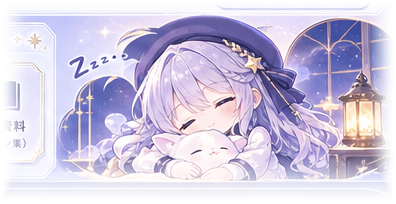
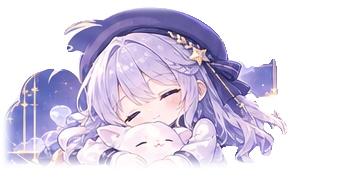
Improve anime cutout transparency and add interactive generated-prop archive

diff --git a/index.html b/index.html
@@ -1,1 +1,1 @@
-<!doctype html><html lang="ja"><head><meta charset="utf-8"><meta name="viewport" content="width=device-width,initial-scale=1"><meta name="theme-color" content="#080e22"><meta name="description" content="星詠ミオのオフィシャルサイト。届かなかった星の声を、あなたへ。プロフィール、観測日誌、音声通信。"><meta property="og:type" content="website"><meta property="og:title" content="星詠ミオ | HOSHIYOMI MIO Official"><meta property="og:description" content="星の声が、きこえる。架空の少女・星詠ミオの公式サイト。"><meta name="twitter:card" content="summary"><title>星詠ミオ | HOSHIYOMI MIO Official</title><link rel="icon" href="assets/favicon.svg" type="image/svg+xml"><link rel="stylesheet" href="style.css"></head><body><div class="sky" aria-hidden="true"><div class="stars"></div></div><div class="noise" aria-hidden="true"></div><header class="header"><a class="brand" href="#top" aria-label="星詠ミオ トップ"><span class="brandmark">✳</span><span>HOSHIYOMI<br><b>MIO</b></span></a><nav class="nav" aria-label="メインナビゲーション"><a href="#about">ABOUT</a><a href="#news">NEWS</a><a href="#signal">SIGNAL</a><a href="#voice">VOICE</a><a href="#schedule">SCHEDULE</a><a href="#gallery">GALLERY</a><a href="#star-map">STAR MAP</a><a href="#letter">LETTER</a><a href="#wallpaper">WALLPAPER</a></nav><a class="header-cta" href="#signal">CONNECT <span>↗</span></a><button class="menu-toggle" aria-label="メニューを開く" aria-expanded="false">☰</button></header><main><section class="hero" id="top"><div class="hero-grid" aria-hidden="true"></div><div class="hero-content"><p class="eyebrow"><span class="pulse"></span> SIGNAL DETECTED · 00:01:27</p><div class="hero-heading"><span class="hero-kicker">THE GIRL WHO LISTENS TO THE STARS.</span><h1>星の声が、<br><em>きこえる。</em></h1><p class="hero-name">星詠 ミオ <span>HOSHIYOMI MIO</span></p></div><p class="hero-intro">真夜中、きみの世界とわたしの宇宙がつながる。<br>これは、まだ名前のない星から届いた物語。</p><div class="hero-actions"><a class="button button-primary" href="#about">ミオについて <span>↗</span></a><a class="text-link" href="#signal">通信を受信する <span>→</span></a><button id="theme-toggle" type="button" class="hero-theme" aria-label="夜明け色のテーマに切り替える">☾</button></div><div class="hero-foot"><span>OBSERVATORY NO. 07</span><span>SCROLL TO EXPLORE ↓</span></div></div><div class="hero-portrait"><div class="orbit orbit-one"></div><div class="orbit orbit-two"></div><div class="halo"></div><img src="assets/mio-hero-art.png" alt="生成イラストによる、銀紫色の髪と星のヘアピンを身につけた星詠ミオ" width="755" height="508" fetchpriority="high"><div class="float-label float-label-top"><span>✦</span> 07 / UNKNOWN STAR</div><div class="float-label float-label-bottom"><span class="tiny-dot"></span> CURRENTLY ONLINE</div></div><span class="hero-side">TRANSMISSION FROM THE FAR SIDE OF THE SKY — 2026</span></section><div class="ticker" aria-hidden="true"><div>✳ LISTEN TO THE UNIVERSE <span>✦</span> STARS NEVER STOP TALKING <span>✳</span> LISTEN TO THE UNIVERSE <span>✦</span> STARS NEVER STOP TALKING <span>✳</span> LISTEN TO THE UNIVERSE <span>✦</span> STARS NEVER STOP TALKING</div></div><section class="section news" id="news"><div class="section-top"><span class="num">01 / NEWS</span><p>天文台から届いた、お知らせ。</p></div><div class="news-heading"><h2 class="section-title">小さな<i>お知らせ。</i></h2><div class="news-tabs" role="group" aria-label="ニュースのカテゴリー"><button class="news-filter active" data-news-filter="all" aria-pressed="true">ALL</button><button class="news-filter" data-news-filter="notice" aria-pressed="false">NOTICE</button><button class="news-filter" data-news-filter="story" aria-pressed="false">STORY</button><button class="news-filter" data-news-filter="update" aria-pressed="false">UPDATE</button></div></div><div class="news-items"><article class="news-item" data-news-category="notice"><time datetime="2026-11-04">2026.11.04</time><span class="news-pill">NOTICE</span><div><h3>星詠ミオ公式サイトがオープンしました。</h3><p>観測所へようこそ。ここから私たちの物語が始まります。</p></div></article><article class="news-item" data-news-category="story"><time datetime="2026-10-27">2026.10.27</time><span class="news-pill story">STORY</span><div><h3>観測記録 #001：誰かに届く電波</h3><p>ひとりぼっちの観測所に、小さな返事がありました。</p></div></article><article class="news-item" data-news-category="update"><time datetime="2026-10-07">2026.10.07</time><span class="news-pill update">UPDATE</span><div><h3>宇宙通信の受信機をアップデート。</h3><p>87.7 MHz付近に秘密のメッセージが隠れています。</p></div></article></div><p class="news-empty" hidden>このカテゴリーの記事はありません。</p></section><section class="section about" id="about"><div class="section-top"><span class="num">02 / PROFILE</span><p>宇宙のどこかにいる、きみへ。</p></div><div class="about-grid"><div><h2 class="section-title">はじめまして、<br><i>星詠ミオ</i>です。</h2><p class="about-text">夜の観測所でひとり、星から届く電波を聴いている女の子。<br>遠く離れた誰かの「さみしい」が、少しでも軽くなるように。今日も小さなアンテナを空へ向けています。</p><blockquote>「見えなくても、<br>ちゃんとそこにいるって、<br>私は信じてるよ。」</blockquote></div><div class="profile-card"><div class="profile-card-head">PERSONAL DATA <span>FILE_007</span></div><div class="profile-illustration"><img src="assets/mio-portrait-art.png" alt="星詠ミオの微笑むポートレート" loading="lazy"></div><dl><div><dt>NAME</dt><dd>星詠 ミオ <small>Hoshiyomi Mio</small></dd></div><div><dt>BIRTHDAY</dt><dd>7月7日</dd></div><div><dt>HEIGHT</dt><dd>158 cm</dd></div><div><dt>LIKE</dt><dd>流星群、クリームソーダ、古いラジオ</dd></div><div><dt>HOBBY</dt><dd>星の声を集めること</dd></div><div><dt>SECRET</dt><dd>とある星から届いた手紙を探している</dd></div></dl><div class="profile-seal">✳ <span>OFFICIAL<br>ARCHIVE</span></div></div></div></section><section class="section signal" id="signal"><div class="section-top"><span class="num">03 / SIGNAL</span><p>観測所からの、ひみつの通信。</p></div><div class="signal-grid"><div><h2 class="section-title">今夜の電波を<br><i>受信しよう。</i></h2><p class="about-text">周波数を合わせると、ミオからのメッセージが届きます。<br>ヘッドホンはなくても大丈夫。きみの心に、そっと。</p><div class="frequency-control"><label for="freq">FREQUENCY <output id="freq-value">87.7</output> MHz</label><input id="freq" type="range" min="75" max="100" value="87.7" step="0.1" aria-label="ラジオ周波数"></div><button class="button button-primary signal-btn" id="receive">✳ &nbsp; SIGNAL RECEIVE</button><p class="signal-hint" id="signal-status" role="status">受信ボタンを押して、通信を開始してください。</p></div><div class="receiver"><div class="receiver-top"><span>H.M. / RECEIVER</span><span class="receiver-led">● STANDBY</span></div><div class="receiver-screen"><div class="wave" id="wave" aria-hidden="true"></div><div class="receiver-frequency"><span id="screen-freq">87.7</span><small>MHz</small></div><p id="received-message">AWAITING TRANSMISSION...</p></div><div class="receiver-footer"><span>CHANNEL 07</span><span>STEREO / COSMIC</span></div></div></div></section><section class="section voice-section" id="voice"><div class="section-top"><span class="num">04 / VOICE & MUSIC</span><p>星詠ミオの声を、想像してみて。</p></div><div class="voice-layout"><div><span class="star-kicker">LISTEN TO THE COSMOS</span><h2 class="section-title">声が<i>届く距離。</i></h2><p class="about-text">以下のセリフは端末の音声合成機能で読み上げます。実際のミオの収録音声ではありません。ブラウザによって利用できる声や音質が異なります。</p><div class="voice-samples"><button type="button" class="voice-sample" data-speak="こんばんは。星詠ミオです。今日も、星の声が聞こえるかな？"><span class="voice-play">▶</span><span>01 / はじめまして<small>INTRODUCTION</small></span><span>02:00 AM ↗</span></button><button type="button" class="voice-sample" data-speak="見上げて。きっと、すぐそばに見えるから。"><span class="voice-play">▶</span><span>02 / 星空の約束<small>STAR PROMISE</small></span><span>08:07 PM ↗</span></button><button type="button" class="voice-sample" data-speak="今日も一日、おつかれさま。明日が少し、やさしい日になりますように。"><span class="voice-play">▶</span><span>03 / おやすみ<small>GOOD NIGHT</small></span><span>11:57 PM ↗</span></button></div><p id="voice-status" role="status" class="voice-status">再生ボタンを押すと音声合成が開始します。</p><button id="stop-voice" class="ghost-button" type="button">読み上げを停止 ■</button></div><div class="music-console"><div class="music-console-art"><img src="assets/mio-portrait-art.png" loading="lazy" alt="星空で微笑むミオ"><span>✳　ORIGINAL AMBIENT TONES</span></div><div class="music-console-body"><div><span class="small-title">COSMIC RADIO</span><h3>「夜のかけら」</h3><p>オリジナルの電子音でつくる、小さなアンビエント音楽。</p></div><button id="ambient-toggle" class="music-play" type="button" aria-pressed="false" aria-label="BGMを再生">▶</button></div><div class="ambient-bottom"><span id="ambient-status">STOPPED</span><label for="ambient-volume">VOLUME <input id="ambient-volume" type="range" min="0" max="100" value="25" aria-label="BGMの音量"></label></div></div></div></section><section class="section schedule-section" id="schedule"><div class="section-top"><span class="num">05 / OBSERVATION CALENDAR</span><p>架空の観測所の、カレンダー。</p></div><div class="schedule-layout"><div><span class="star-kicker">COSMIC EVENT CALENDAR</span><h2 class="section-title">星空の<i>予定表。</i></h2><p class="about-text">観測所での物語上の出来事を記したカレンダーです。現実の配信・イベントの告知ではありません。日付を選ぶと、その日の観測メモが表示されます。</p><div class="schedule-note"><span>✳</span><p>7日：小さな通信日<br>18日：星屑ノート更新<br>25日：深夜の観測会</p></div><p id="schedule-selected" class="schedule-selected" role="status">カレンダーの星印がある日を選んでください。</p><a class="text-link" href="#log">観測日誌を見る <span>→</span></a></div><div class="calendar"><div class="calendar-head"><button id="prev-month" aria-label="前の月を見る" type="button">←</button><h3 id="calendar-title">2026年11月</h3><button id="next-month" aria-label="次の月を見る" type="button">→</button></div><div class="calendar-weekdays" aria-hidden="true"><span>日</span><span>月</span><span>火</span><span>水</span><span>木</span><span>金</span><span>土</span></div><div class="calendar-days" id="calendar-days"></div><div class="calendar-footer"><span>✦ STORY EVENT</span><span>FICTIONAL SCHEDULE ONLY</span></div></div></div></section><section class="section logs" id="log"><div class="section-top"><span class="num">06 / OBSERVATION LOG</span><p>誰も知らない、星の記録。</p></div><div class="log-heading"><h2 class="section-title">星屑の<i>日誌。</i></h2><span>ARCHIVED TRANSMISSIONS</span></div><div class="log-list"><article class="log-item"><time>2026.11.04</time><span class="log-type">DIARY</span><div><h3>新しいアンテナが届いた日。</h3><p>昨日より少しだけ、遠くの声が聞こえた気がする。</p></div><button class="log-arrow" type="button" aria-label="観測日誌を詳しく読む">↗</button></article><article class="log-item"><time>2026.10.27</time><span class="log-type">OBSERVATION</span><div><h3>しし座の方角から、謎の信号。</h3><p>規則正しい音が七回。もしかして、返事なのかな。</p></div><button class="log-arrow" type="button" aria-label="観測日誌を詳しく読む">↗</button></article><article class="log-item"><time>2026.10.07</time><span class="log-type">MEMORY</span><div><h3>クリームソーダと、青い彗星。</h3><p>甘いものを食べると、宇宙も少し近くなる。</p></div><button class="log-arrow" type="button" aria-label="観測日誌を詳しく読む">↗</button></article></div><dialog id="log-dialog" class="story-dialog" aria-label="観測日誌の本文"><button type="button" id="close-log" class="dialog-close" aria-label="日誌を閉じる">×</button><span>OBSERVATION LOG</span><h3 id="log-dialog-title"></h3><p id="log-dialog-body"></p></dialog></section><section class="section gallery" id="gallery"><div class="section-top"><span class="num">07 / GALLERY</span><p>この瞬間も、宇宙は広がっている。</p></div><div class="gallery-grid"><div class="gallery-art"><div class="gallery-moon"></div><div class="gallery-small-stars">✦ ✧ ✳ ✧ ✦</div><img src="assets/mio-portrait-art.png" alt="星詠ミオの天文台での一場面" loading="lazy"><span>ARTWORK NO. 001 — ORIGINAL CHARACTER</span></div><div class="gallery-copy"><span>AN ARCHIVE OF LITTLE MIRACLES</span><h2>きみと、<br><i>星を数える。</i></h2><p>世界中の夜空は、どこかでつながっている。<br>明日の夜も、ここで会おうね。</p><span class="signature">Mio ✳</span></div></div><div class="art-collection" aria-label="ミオのイラストコレクション"><button class="art-tile" type="button" data-art="assets/mio-hero-art.png" data-art-title="流星に手をのばして"><img src="assets/mio-hero-art.png" loading="lazy" alt="流れ星に手を伸ばすミオ"><span>01 / REACH THE STARS　↗</span></button><button class="art-tile" type="button" data-art="assets/mio-observatory-art.png" data-art-title="夜の観測所"><img src="assets/mio-observatory-art.png" loading="lazy" alt="星空と夜の天文台"><span>02 / OBSERVATORY　↗</span></button><button class="art-tile" type="button" data-art="assets/mio-chibi-art.png" data-art-title="星の夢を見る"><img src="assets/mio-chibi-art.png" loading="lazy" alt="星のマスコットを抱く眠そうなミオ"><span>03 / GOOD NIGHT　↗</span></button></div><dialog id="art-dialog" class="art-dialog" aria-label="拡大イラスト"><button type="button" class="dialog-close" id="close-art" aria-label="画像を閉じる">×</button><img id="dialog-image" alt=""><p id="dialog-title"></p></dialog></section><section class="section star-section" id="star-map"><div class="section-top"><span class="num">08 / STELLAR ATLAS</span><p>失くした星を、ひとつずつ。</p></div><div class="star-layout"><div class="star-copy"><span class="star-kicker">MIO'S SEVEN STARS</span><h2 class="section-title">七つの星を<i>探して。</i></h2><p class="about-text">天文台に隠された七つの光。星をタップすると、ミオの記憶が少しずつ戻ってきます。全部見つけると、特別なメッセージが届きます。</p><div class="star-counter"><strong id="star-count">0</strong><span>/ 07 DISCOVERED</span></div><p id="star-story" class="star-story" role="status">光る星を選んでみてください。</p><button id="reset-stars" class="ghost-button" type="button">星図をリセット ↺</button></div><div class="sky-chart" role="group" aria-label="七つの星を集めるインタラクティブ星図"><svg id="star-lines" viewBox="0 0 600 520" preserveAspectRatio="none" aria-hidden="true"></svg><div class="sky-chart-orbit"></div><span class="sky-label sky-label-one">CONSTELLATION M-07</span><span class="sky-label sky-label-two">RA 07h 07m</span><button class="sky-star" type="button" style="--x:16%;--y:26%;--size:16px" data-star="0" aria-label="1番目の星を観測する">✦</button><button class="sky-star" type="button" style="--x:36%;--y:12%;--size:21px" data-star="1" aria-label="2番目の星を観測する">✦</button><button class="sky-star" type="button" style="--x:64%;--y:25%;--size:19px" data-star="2" aria-label="3番目の星を観測する">✦</button><button class="sky-star" type="button" style="--x:82%;--y:43%;--size:24px" data-star="3" aria-label="4番目の星を観測する">✦</button><button class="sky-star" type="button" style="--x:66%;--y:78%;--size:17px" data-star="4" aria-label="5番目の星を観測する">✦</button><button class="sky-star" type="button" style="--x:33%;--y:73%;--size:23px" data-star="5" aria-label="6番目の星を観測する">✦</button><button class="sky-star" type="button" style="--x:16%;--y:51%;--size:19px" data-star="6" aria-label="7番目の星を観測する">✦</button></div></div><div id="star-secret" class="star-secret" hidden><span>✳ ALL SIGNALS RESTORED</span><p>「見つけてくれてありがとう。きみが七つ目の星だったんだよ。」</p></div></section><section class="section letter-section" id="letter"><div class="section-top"><span class="num">09 / STAR LETTER</span><p>送らない手紙も、大切な記録。</p></div><div class="letter-layout"><div><h2 class="section-title">星に<i>手紙を。</i></h2><p class="about-text">今夜の気持ちを、こっそり書きとめてみませんか。この手紙はサーバーには送信されず、使っているブラウザの中にだけ保存されます。</p><div class="letter-art"><img src="assets/mio-chibi-art.png" loading="lazy" alt="眠そうなミオのイラスト"><span>"Tomorrow's sky will be kind to you."</span></div></div><div class="letter-paper"><div class="letter-paper-head"><span>TO. HOSHIYOMI MIO</span><span>PRIVATE ARCHIVE</span></div><form id="letter-form"><label for="letter-body">きみからのメッセージ</label><textarea id="letter-body" maxlength="280" required placeholder="今日、こんなことがあったよ。"></textarea><div class="letter-actions"><span id="letter-length">0 / 280</span><button class="button button-primary" type="submit">手紙をしまう <span>✳</span></button></div></form><p id="letter-feedback" class="letter-feedback" role="status"></p><div class="letter-history"><div class="letter-history-head"><h3>しまっておいた手紙</h3><span id="letter-total">0 LETTERS</span></div><ul id="letter-list" class="letter-list"></ul></div></div></div></section><section class="section wallpaper-section" id="wallpaper"><div class="section-top"><span class="num">10 / WALLPAPER STUDIO</span><p>きみだけの、星空を。</p></div><div class="wallpaper-layout"><div><span class="star-kicker">DESIGN YOUR OWN NIGHT SKY</span><h2 class="section-title">壁紙を<i>つくろう。</i></h2><p class="about-text">好きなサイズを選んで、星詠ミオのオリジナル壁紙を生成できます。背景や文字はブラウザで描画し、画像生成したキャラクター素材を合成します。</p><label class="wallpaper-label" for="wallpaper-size">キャンバスサイズ</label><select id="wallpaper-size"><option value="mobile">スマートフォン / 1080 × 1920</option><option value="desktop">パソコン / 1920 × 1080</option><option value="square">正方形 / 1080 × 1080</option></select><div class="wallpaper-actions"><button id="wallpaper-refresh" class="ghost-button" type="button">星空を変える ✧</button><button id="wallpaper-download" class="button button-primary" type="button">PNGを保存 ↓</button></div><p class="wallpaper-notice" id="wallpaper-status" role="status">プレビューを作成しています。</p></div><div class="wallpaper-preview-wrap"><canvas id="wallpaper-preview" width="540" height="960" aria-label="壁紙のプレビュー画像"></canvas><div class="wallpaper-preview-caption">LIVE PREVIEW · GENERATED LOCALLY</div></div></div></section></main><footer><div class="footer-logo">✳ <span>星詠ミオ</span></div><p>星の声が、きこえる。</p><div class="footer-bottom"><span>© 2026 HOSHIYOMI MIO. FICTIONAL CHARACTER PROJECT. ORIGINAL AI-ASSISTED ARTWORK.</span><a href="#top">BACK TO TOP ↑</a></div></footer><aside class="mio-helper" aria-label="ミオの小さな案内"><div class="helper-bubble" id="helper-bubble" hidden><p id="helper-message">やっほー！ 星を見にきてくれてありがとう。</p><button id="helper-favorite" type="button" aria-pressed="false">☆ お気に入り</button><button id="helper-dismiss" type="button" aria-label="案内を閉じる">×</button></div><button id="helper-toggle" type="button" aria-label="ミオのメッセージを開く" aria-expanded="false"><img src="assets/mio-chibi-art.png" alt="" width="120" height="64"><span>✧ TALK</span></button></aside><script src="script.js"></script></body></html>
+<!doctype html><html lang="ja"><head><meta charset="utf-8"><meta name="viewport" content="width=device-width,initial-scale=1"><meta name="theme-color" content="#080e22"><meta name="description" content="星詠ミオのオフィシャルサイト。届かなかった星の声を、あなたへ。プロフィール、観測日誌、音声通信。"><meta property="og:type" content="website"><meta property="og:title" content="星詠ミオ | HOSHIYOMI MIO Official"><meta property="og:description" content="星の声が、きこえる。架空の少女・星詠ミオの公式サイト。"><meta name="twitter:card" content="summary"><title>星詠ミオ | HOSHIYOMI MIO Official</title><link rel="icon" href="assets/favicon.svg" type="image/svg+xml"><link rel="stylesheet" href="style.css"></head><body><div class="sky" aria-hidden="true"><div class="stars"></div></div><div class="noise" aria-hidden="true"></div><header class="header"><a class="brand" href="#top" aria-label="星詠ミオ トップ"><span class="brandmark">✳</span><span>HOSHIYOMI<br><b>MIO</b></span></a><nav class="nav" aria-label="メインナビゲーション"><a href="#about">ABOUT</a><a href="#news">NEWS</a><a href="#signal">SIGNAL</a><a href="#voice">VOICE</a><a href="#schedule">SCHEDULE</a><a href="#gallery">GALLERY</a><a href="#star-map">STAR MAP</a><a href="#letter">LETTER</a><a href="#wallpaper">WALLPAPER</a></nav><a class="header-cta" href="#signal">CONNECT <span>↗</span></a><button class="menu-toggle" aria-label="メニューを開く" aria-expanded="false">☰</button></header><main><section class="hero" id="top"><div class="hero-grid" aria-hidden="true"></div><div class="hero-content"><p class="eyebrow"><span class="pulse"></span> SIGNAL DETECTED · 00:01:27</p><div class="hero-heading"><span class="hero-kicker">THE GIRL WHO LISTENS TO THE STARS.</span><h1>星の声が、<br><em>きこえる。</em></h1><p class="hero-name">星詠 ミオ <span>HOSHIYOMI MIO</span></p></div><p class="hero-intro">真夜中、きみの世界とわたしの宇宙がつながる。<br>これは、まだ名前のない星から届いた物語。</p><div class="hero-actions"><a class="button button-primary" href="#about">ミオについて <span>↗</span></a><a class="text-link" href="#signal">通信を受信する <span>→</span></a><button id="theme-toggle" type="button" class="hero-theme" aria-label="夜明け色のテーマに切り替える">☾</button></div><div class="hero-foot"><span>OBSERVATORY NO. 07</span><span>SCROLL TO EXPLORE ↓</span></div></div><div class="hero-portrait"><div class="orbit orbit-one"></div><div class="orbit orbit-two"></div><div class="halo"></div><img src="assets/mio-hero-art.png" alt="生成イラストによる、銀紫色の髪と星のヘアピンを身につけた星詠ミオ" width="755" height="508" fetchpriority="high"><div class="float-label float-label-top"><span>✦</span> 07 / UNKNOWN STAR</div><div class="float-label float-label-bottom"><span class="tiny-dot"></span> CURRENTLY ONLINE</div></div><span class="hero-side">TRANSMISSION FROM THE FAR SIDE OF THE SKY — 2026</span></section><div class="ticker" aria-hidden="true"><div>✳ LISTEN TO THE UNIVERSE <span>✦</span> STARS NEVER STOP TALKING <span>✳</span> LISTEN TO THE UNIVERSE <span>✦</span> STARS NEVER STOP TALKING <span>✳</span> LISTEN TO THE UNIVERSE <span>✦</span> STARS NEVER STOP TALKING</div></div><section class="section news" id="news"><div class="section-top"><span class="num">01 / NEWS</span><p>天文台から届いた、お知らせ。</p></div><div class="news-heading"><h2 class="section-title">小さな<i>お知らせ。</i></h2><div class="news-tabs" role="group" aria-label="ニュースのカテゴリー"><button class="news-filter active" data-news-filter="all" aria-pressed="true">ALL</button><button class="news-filter" data-news-filter="notice" aria-pressed="false">NOTICE</button><button class="news-filter" data-news-filter="story" aria-pressed="false">STORY</button><button class="news-filter" data-news-filter="update" aria-pressed="false">UPDATE</button></div></div><div class="news-items"><article class="news-item" data-news-category="notice"><time datetime="2026-11-04">2026.11.04</time><span class="news-pill">NOTICE</span><div><h3>星詠ミオ公式サイトがオープンしました。</h3><p>観測所へようこそ。ここから私たちの物語が始まります。</p></div></article><article class="news-item" data-news-category="story"><time datetime="2026-10-27">2026.10.27</time><span class="news-pill story">STORY</span><div><h3>観測記録 #001：誰かに届く電波</h3><p>ひとりぼっちの観測所に、小さな返事がありました。</p></div></article><article class="news-item" data-news-category="update"><time datetime="2026-10-07">2026.10.07</time><span class="news-pill update">UPDATE</span><div><h3>宇宙通信の受信機をアップデート。</h3><p>87.7 MHz付近に秘密のメッセージが隠れています。</p></div></article></div><p class="news-empty" hidden>このカテゴリーの記事はありません。</p></section><section class="section about" id="about"><div class="section-top"><span class="num">02 / PROFILE</span><p>宇宙のどこかにいる、きみへ。</p></div><div class="about-grid"><div><h2 class="section-title">はじめまして、<br><i>星詠ミオ</i>です。</h2><p class="about-text">夜の観測所でひとり、星から届く電波を聴いている女の子。<br>遠く離れた誰かの「さみしい」が、少しでも軽くなるように。今日も小さなアンテナを空へ向けています。</p><a class="text-link" href="#equipment">観測所の宝物を見る <span>→</span></a><blockquote>「見えなくても、<br>ちゃんとそこにいるって、<br>私は信じてるよ。」</blockquote></div><div class="profile-card"><div class="profile-card-head">PERSONAL DATA <span>FILE_007</span></div><div class="profile-illustration"><img src="assets/mio-portrait-art.png" alt="星詠ミオの微笑むポートレート" loading="lazy"></div><dl><div><dt>NAME</dt><dd>星詠 ミオ <small>Hoshiyomi Mio</small></dd></div><div><dt>BIRTHDAY</dt><dd>7月7日</dd></div><div><dt>HEIGHT</dt><dd>158 cm</dd></div><div><dt>LIKE</dt><dd>流星群、クリームソーダ、古いラジオ</dd></div><div><dt>HOBBY</dt><dd>星の声を集めること</dd></div><div><dt>SECRET</dt><dd>とある星から届いた手紙を探している</dd></div></dl><div class="profile-seal">✳ <span>OFFICIAL<br>ARCHIVE</span></div></div></div></section><section class="section equipment-section" id="equipment"><div class="section-top"><span class="num">03 / OBSERVATORY OBJECTS</span><p>夜の観測所にある、三つの宝物。</p></div><div class="equipment-heading"><div><span class="star-kicker">LOST & FOUND, STARDUST EDITION</span><h2 class="section-title">ミオの<i>宝物。</i></h2></div><p>画像生成素材から切り出した小道具を並べた、観測所の小さな図鑑。気になるものを選んでください。</p></div><div class="equipment-grid" role="group" aria-label="観測所の小道具を選択"><button class="equipment-item active" type="button" data-equipment="0" aria-pressed="true"><span class="gear-index">OBJECT / 01</span><div class="gear-image"><img src="assets/prop-star-pin.png" alt="星の形の髪飾り" loading="lazy"></div><strong>星の髪飾り</strong><span class="gear-sub">STELLAR HAIRPIN</span></button><button class="equipment-item" type="button" data-equipment="1" aria-pressed="false"><span class="gear-index">OBJECT / 02</span><div class="gear-image"><img src="assets/prop-telescope.png" alt="星空を向いた望遠鏡" loading="lazy"></div><strong>深夜の望遠鏡</strong><span class="gear-sub">MIDNIGHT TELESCOPE</span></button><button class="equipment-item" type="button" data-equipment="2" aria-pressed="false"><span class="gear-index">OBJECT / 03</span><div class="gear-image"><img src="assets/mio-observatory-art.png" alt="ドーム型の夜の観測所" loading="lazy"></div><strong>七番観測所</strong><span class="gear-sub">OBSERVATORY NO. 07</span></button></div><div class="equipment-story"><span id="equipment-tag">COLLECTION NO. 01</span><p id="equipment-description" role="status">ミオがいつも身につけている星形の髪飾り。誰かからもらった大切な贈り物だけれど、送り主の名前だけが思い出せません。</p></div></section><section class="section signal" id="signal"><div class="section-top"><span class="num">04 / SIGNAL</span><p>観測所からの、ひみつの通信。</p></div><div class="signal-grid"><div><h2 class="section-title">今夜の電波を<br><i>受信しよう。</i></h2><p class="about-text">周波数を合わせると、ミオからのメッセージが届きます。<br>ヘッドホンはなくても大丈夫。きみの心に、そっと。</p><div class="frequency-control"><label for="freq">FREQUENCY <output id="freq-value">87.7</output> MHz</label><input id="freq" type="range" min="75" max="100" value="87.7" step="0.1" aria-label="ラジオ周波数"></div><button class="button button-primary signal-btn" id="receive">✳ &nbsp; SIGNAL RECEIVE</button><p class="signal-hint" id="signal-status" role="status">受信ボタンを押して、通信を開始してください。</p></div><div class="receiver"><div class="receiver-top"><span>H.M. / RECEIVER</span><span class="receiver-led">● STANDBY</span></div><div class="receiver-screen"><div class="wave" id="wave" aria-hidden="true"></div><div class="receiver-frequency"><span id="screen-freq">87.7</span><small>MHz</small></div><p id="received-message">AWAITING TRANSMISSION...</p></div><div class="receiver-footer"><span>CHANNEL 07</span><span>STEREO / COSMIC</span></div></div></div></section><section class="section voice-section" id="voice"><div class="section-top"><span class="num">05 / VOICE & MUSIC</span><p>星詠ミオの声を、想像してみて。</p></div><div class="voice-layout"><div><span class="star-kicker">LISTEN TO THE COSMOS</span><h2 class="section-title">声が<i>届く距離。</i></h2><p class="about-text">以下のセリフは端末の音声合成機能で読み上げます。実際のミオの収録音声ではありません。ブラウザによって利用できる声や音質が異なります。</p><div class="voice-samples"><button type="button" class="voice-sample" data-speak="こんばんは。星詠ミオです。今日も、星の声が聞こえるかな？"><span class="voice-play">▶</span><span>01 / はじめまして<small>INTRODUCTION</small></span><span>02:00 AM ↗</span></button><button type="button" class="voice-sample" data-speak="見上げて。きっと、すぐそばに見えるから。"><span class="voice-play">▶</span><span>02 / 星空の約束<small>STAR PROMISE</small></span><span>08:07 PM ↗</span></button><button type="button" class="voice-sample" data-speak="今日も一日、おつかれさま。明日が少し、やさしい日になりますように。"><span class="voice-play">▶</span><span>03 / おやすみ<small>GOOD NIGHT</small></span><span>11:57 PM ↗</span></button></div><p id="voice-status" role="status" class="voice-status">再生ボタンを押すと音声合成が開始します。</p><button id="stop-voice" class="ghost-button" type="button">読み上げを停止 ■</button></div><div class="music-console"><div class="music-console-art"><img src="assets/mio-portrait-art.png" loading="lazy" alt="星空で微笑むミオ"><span>✳　ORIGINAL AMBIENT TONES</span></div><div class="music-console-body"><div><span class="small-title">COSMIC RADIO</span><h3>「夜のかけら」</h3><p>オリジナルの電子音でつくる、小さなアンビエント音楽。</p></div><button id="ambient-toggle" class="music-play" type="button" aria-pressed="false" aria-label="BGMを再生">▶</button></div><div class="ambient-bottom"><span id="ambient-status">STOPPED</span><label for="ambient-volume">VOLUME <input id="ambient-volume" type="range" min="0" max="100" value="25" aria-label="BGMの音量"></label></div></div></div></section><section class="section schedule-section" id="schedule"><div class="section-top"><span class="num">06 / OBSERVATION CALENDAR</span><p>架空の観測所の、カレンダー。</p></div><div class="schedule-layout"><div><span class="star-kicker">COSMIC EVENT CALENDAR</span><h2 class="section-title">星空の<i>予定表。</i></h2><p class="about-text">観測所での物語上の出来事を記したカレンダーです。現実の配信・イベントの告知ではありません。日付を選ぶと、その日の観測メモが表示されます。</p><div class="schedule-note"><span>✳</span><p>7日：小さな通信日<br>18日：星屑ノート更新<br>25日：深夜の観測会</p></div><p id="schedule-selected" class="schedule-selected" role="status">カレンダーの星印がある日を選んでください。</p><a class="text-link" href="#log">観測日誌を見る <span>→</span></a></div><div class="calendar"><div class="calendar-head"><button id="prev-month" aria-label="前の月を見る" type="button">←</button><h3 id="calendar-title">2026年11月</h3><button id="next-month" aria-label="次の月を見る" type="button">→</button></div><div class="calendar-weekdays" aria-hidden="true"><span>日</span><span>月</span><span>火</span><span>水</span><span>木</span><span>金</span><span>土</span></div><div class="calendar-days" id="calendar-days"></div><div class="calendar-footer"><span>✦ STORY EVENT</span><span>FICTIONAL SCHEDULE ONLY</span></div></div></div></section><section class="section logs" id="log"><div class="section-top"><span class="num">07 / OBSERVATION LOG</span><p>誰も知らない、星の記録。</p></div><div class="log-heading"><h2 class="section-title">星屑の<i>日誌。</i></h2><span>ARCHIVED TRANSMISSIONS</span></div><div class="log-list"><article class="log-item"><time>2026.11.04</time><span class="log-type">DIARY</span><div><h3>新しいアンテナが届いた日。</h3><p>昨日より少しだけ、遠くの声が聞こえた気がする。</p></div><button class="log-arrow" type="button" aria-label="観測日誌を詳しく読む">↗</button></article><article class="log-item"><time>2026.10.27</time><span class="log-type">OBSERVATION</span><div><h3>しし座の方角から、謎の信号。</h3><p>規則正しい音が七回。もしかして、返事なのかな。</p></div><button class="log-arrow" type="button" aria-label="観測日誌を詳しく読む">↗</button></article><article class="log-item"><time>2026.10.07</time><span class="log-type">MEMORY</span><div><h3>クリームソーダと、青い彗星。</h3><p>甘いものを食べると、宇宙も少し近くなる。</p></div><button class="log-arrow" type="button" aria-label="観測日誌を詳しく読む">↗</button></article></div><dialog id="log-dialog" class="story-dialog" aria-label="観測日誌の本文"><button type="button" id="close-log" class="dialog-close" aria-label="日誌を閉じる">×</button><span>OBSERVATION LOG</span><h3 id="log-dialog-title"></h3><p id="log-dialog-body"></p></dialog></section><section class="section gallery" id="gallery"><div class="section-top"><span class="num">08 / GALLERY</span><p>この瞬間も、宇宙は広がっている。</p></div><div class="gallery-grid"><div class="gallery-art"><div class="gallery-moon"></div><div class="gallery-small-stars">✦ ✧ ✳ ✧ ✦</div><img src="assets/mio-portrait-art.png" alt="星詠ミオの天文台での一場面" loading="lazy"><span>ARTWORK NO. 001 — ORIGINAL CHARACTER</span></div><div class="gallery-copy"><span>AN ARCHIVE OF LITTLE MIRACLES</span><h2>きみと、<br><i>星を数える。</i></h2><p>世界中の夜空は、どこかでつながっている。<br>明日の夜も、ここで会おうね。</p><span class="signature">Mio ✳</span></div></div><div class="art-collection" aria-label="ミオのイラストコレクション"><button class="art-tile" type="button" data-art="assets/mio-hero-art.png" data-art-title="流星に手をのばして"><img src="assets/mio-hero-art.png" loading="lazy" alt="流れ星に手を伸ばすミオ"><span>01 / REACH THE STARS　↗</span></button><button class="art-tile" type="button" data-art="assets/mio-observatory-art.png" data-art-title="夜の観測所"><img src="assets/mio-observatory-art.png" loading="lazy" alt="星空と夜の天文台"><span>02 / OBSERVATORY　↗</span></button><button class="art-tile" type="button" data-art="assets/mio-chibi-art.png" data-art-title="星の夢を見る"><img src="assets/mio-chibi-art.png" loading="lazy" alt="星のマスコットを抱く眠そうなミオ"><span>03 / GOOD NIGHT　↗</span></button></div><dialog id="art-dialog" class="art-dialog" aria-label="拡大イラスト"><button type="button" class="dialog-close" id="close-art" aria-label="画像を閉じる">×</button><img id="dialog-image" alt=""><p id="dialog-title"></p></dialog></section><section class="section star-section" id="star-map"><div class="section-top"><span class="num">09 / STELLAR ATLAS</span><p>失くした星を、ひとつずつ。</p></div><div class="star-layout"><div class="star-copy"><span class="star-kicker">MIO'S SEVEN STARS</span><h2 class="section-title">七つの星を<i>探して。</i></h2><p class="about-text">天文台に隠された七つの光。星をタップすると、ミオの記憶が少しずつ戻ってきます。全部見つけると、特別なメッセージが届きます。</p><div class="star-counter"><strong id="star-count">0</strong><span>/ 07 DISCOVERED</span></div><p id="star-story" class="star-story" role="status">光る星を選んでみてください。</p><button id="reset-stars" class="ghost-button" type="button">星図をリセット ↺</button></div><div class="sky-chart" role="group" aria-label="七つの星を集めるインタラクティブ星図"><svg id="star-lines" viewBox="0 0 600 520" preserveAspectRatio="none" aria-hidden="true"></svg><div class="sky-chart-orbit"></div><span class="sky-label sky-label-one">CONSTELLATION M-07</span><span class="sky-label sky-label-two">RA 07h 07m</span><button class="sky-star" type="button" style="--x:16%;--y:26%;--size:16px" data-star="0" aria-label="1番目の星を観測する">✦</button><button class="sky-star" type="button" style="--x:36%;--y:12%;--size:21px" data-star="1" aria-label="2番目の星を観測する">✦</button><button class="sky-star" type="button" style="--x:64%;--y:25%;--size:19px" data-star="2" aria-label="3番目の星を観測する">✦</button><button class="sky-star" type="button" style="--x:82%;--y:43%;--size:24px" data-star="3" aria-label="4番目の星を観測する">✦</button><button class="sky-star" type="button" style="--x:66%;--y:78%;--size:17px" data-star="4" aria-label="5番目の星を観測する">✦</button><button class="sky-star" type="button" style="--x:33%;--y:73%;--size:23px" data-star="5" aria-label="6番目の星を観測する">✦</button><button class="sky-star" type="button" style="--x:16%;--y:51%;--size:19px" data-star="6" aria-label="7番目の星を観測する">✦</button></div></div><div id="star-secret" class="star-secret" hidden><span>✳ ALL SIGNALS RESTORED</span><p>「見つけてくれてありがとう。きみが七つ目の星だったんだよ。」</p></div></section><section class="section letter-section" id="letter"><div class="section-top"><span class="num">10 / STAR LETTER</span><p>送らない手紙も、大切な記録。</p></div><div class="letter-layout"><div><h2 class="section-title">星に<i>手紙を。</i></h2><p class="about-text">今夜の気持ちを、こっそり書きとめてみませんか。この手紙はサーバーには送信されず、使っているブラウザの中にだけ保存されます。</p><div class="letter-art"><img src="assets/mio-chibi-art.png" loading="lazy" alt="眠そうなミオのイラスト"><span>"Tomorrow's sky will be kind to you."</span></div></div><div class="letter-paper"><div class="letter-paper-head"><span>TO. HOSHIYOMI MIO</span><span>PRIVATE ARCHIVE</span></div><form id="letter-form"><label for="letter-body">きみからのメッセージ</label><textarea id="letter-body" maxlength="280" required placeholder="今日、こんなことがあったよ。"></textarea><div class="letter-actions"><span id="letter-length">0 / 280</span><button class="button button-primary" type="submit">手紙をしまう <span>✳</span></button></div></form><p id="letter-feedback" class="letter-feedback" role="status"></p><div class="letter-history"><div class="letter-history-head"><h3>しまっておいた手紙</h3><span id="letter-total">0 LETTERS</span></div><ul id="letter-list" class="letter-list"></ul></div></div></div></section><section class="section wallpaper-section" id="wallpaper"><div class="section-top"><span class="num">11 / WALLPAPER STUDIO</span><p>きみだけの、星空を。</p></div><div class="wallpaper-layout"><div><span class="star-kicker">DESIGN YOUR OWN NIGHT SKY</span><h2 class="section-title">壁紙を<i>つくろう。</i></h2><p class="about-text">好きなサイズを選んで、星詠ミオのオリジナル壁紙を生成できます。背景や文字はブラウザで描画し、画像生成したキャラクター素材を合成します。</p><label class="wallpaper-label" for="wallpaper-size">キャンバスサイズ</label><select id="wallpaper-size"><option value="mobile">スマートフォン / 1080 × 1920</option><option value="desktop">パソコン / 1920 × 1080</option><option value="square">正方形 / 1080 × 1080</option></select><div class="wallpaper-actions"><button id="wallpaper-refresh" class="ghost-button" type="button">星空を変える ✧</button><button id="wallpaper-download" class="button button-primary" type="button">PNGを保存 ↓</button></div><p class="wallpaper-notice" id="wallpaper-status" role="status">プレビューを作成しています。</p></div><div class="wallpaper-preview-wrap"><canvas id="wallpaper-preview" width="540" height="960" aria-label="壁紙のプレビュー画像"></canvas><div class="wallpaper-preview-caption">LIVE PREVIEW · GENERATED LOCALLY</div></div></div></section></main><footer><div class="footer-logo">✳ <span>星詠ミオ</span></div><p>星の声が、きこえる。</p><div class="footer-bottom"><span>© 2026 HOSHIYOMI MIO. FICTIONAL CHARACTER PROJECT. ORIGINAL AI-ASSISTED ARTWORK.</span><a href="#top">BACK TO TOP ↑</a></div></footer><aside class="mio-helper" aria-label="ミオの小さな案内"><div class="helper-bubble" id="helper-bubble" hidden><p id="helper-message">やっほー！ 星を見にきてくれてありがとう。</p><button id="helper-favorite" type="button" aria-pressed="false">☆ お気に入り</button><button id="helper-dismiss" type="button" aria-label="案内を閉じる">×</button></div><button id="helper-toggle" type="button" aria-label="ミオのメッセージを開く" aria-expanded="false"><img src="assets/mio-chibi-art.png" alt="" width="120" height="64"><span>✧ TALK</span></button></aside><script src="script.js"></script></body></html>

diff --git a/style.css b/style.css
@@ -26,3 +26,8 @@ body[data-theme="violet"]{--navy:#1b1434;--navy2:#2b204f;--accent:#f3b8dc;--pink
 /* Tablet navigation: avoid forcing a desktop-width row of ten links. */
 @media(max-width:1180px){.header{position:relative}.header-cta{margin-left:auto}.nav{display:none}.nav.open{display:flex;position:absolute;top:96px;left:0;right:0;background:#0b162e;padding:28px 6%;border-bottom:1px solid var(--line);flex-direction:column;gap:22px;max-height:calc(100vh - 96px);overflow-y:auto;z-index:15;box-shadow:0 20px 40px #0008}.menu-toggle{display:block;margin-left:10px}}
 @media(max-width:650px){.nav.open{top:76px;max-height:calc(100vh - 76px)}.header-cta{display:none}}
+/* Show the actual character within the first mobile viewport, not only after scrolling. */
+@media(max-width:650px){.hero-foot{margin-top:280px}.hero{min-height:860px}}
+/* Phase 5: collectible artwork props extracted from generated scenes. */
+.equipment-section{background:radial-gradient(ellipse at 40% 35%,#1d3053,#0c1731 75%)}.equipment-heading{display:flex;align-items:end;justify-content:space-between;gap:35px}.equipment-heading .section-title{margin:12px 0 0}.equipment-heading>p{max-width:370px;font-size:13px;line-height:2.2;color:#a9bdd5}.equipment-grid{display:grid;grid-template-columns:repeat(3,minmax(0,1fr));gap:18px;margin-top:38px}.equipment-item{min-width:0;text-align:left;border:1px solid #738ab466;background:linear-gradient(145deg,#1a2a4b,#0a152c);color:var(--paper);padding:23px;cursor:pointer;transition:transform .2s,border-color .2s;display:flex;flex-direction:column}.equipment-item:hover,.equipment-item:focus-visible{transform:translateY(-5px);border-color:var(--accent)}.equipment-item.active{border-color:var(--accent);box-shadow:0 0 0 1px var(--accent)}.gear-index,.gear-sub{font:10px 'DM Mono',monospace;letter-spacing:.12em;color:#95aec9}.gear-index{color:var(--accent)}.equipment-item strong{font-size:19px;margin:15px 0 7px}.gear-image{height:225px;width:100%;margin:17px 0 5px;display:flex;justify-content:center;align-items:center;overflow:hidden;background:radial-gradient(circle,#4a5d92,#1b2e50 60%,#111d37)}.gear-image img{width:100%;max-height:100%;object-fit:contain;transition:transform .35s}.equipment-item:hover .gear-image img{transform:scale(1.07)}.equipment-item:first-child .gear-image img{width:72%;filter:drop-shadow(0 7px 25px #111631)}.equipment-story{margin-top:24px;border:1px solid #637ca15e;padding:28px 32px;background:#a5e4dc0c;display:grid;grid-template-columns:180px 1fr;gap:30px}.equipment-story span{color:var(--accent);font:11px 'DM Mono',monospace;letter-spacing:.12em}.equipment-story p{font-size:14px;color:#cbd6e9;line-height:2;margin:0}
+@media(max-width:900px){.equipment-heading{display:block}.equipment-grid{gap:12px}.gear-image{height:180px}.equipment-item{padding:15px}.equipment-item strong{font-size:15px}}@media(max-width:650px){.equipment-grid{grid-template-columns:1fr 1fr}.equipment-item:last-child{grid-column:1/-1}.equipment-item{padding:12px}.gear-image{height:135px}.equipment-item:last-child .gear-image{height:180px}.equipment-item strong{font-size:14px}.gear-sub,.gear-index{font-size:8px}.equipment-story{display:block;padding:22px}.equipment-story p{margin-top:15px;font-size:13px}}

diff --git a/script.js b/script.js
@@ -92,3 +92,10 @@ const logDialog=document.querySelector('#log-dialog');
 document.querySelectorAll('.log-item').forEach((article,index)=>{article.querySelector('.log-arrow').addEventListener('click',()=>{document.querySelector('#log-dialog-title').textContent=article.querySelector('h3').textContent;document.querySelector('#log-dialog-body').textContent=observationStories[index]||'';logDialog.showModal()})});
 document.querySelector('#close-log').addEventListener('click',()=>logDialog.close());
 logDialog.addEventListener('click',event=>{if(event.target===logDialog)logDialog.close()});
+// Generated prop archive — local lore, no external links or fictitious sales claims.
+const equipmentLore=[
+ 'ミオがいつも身につけている星形の髪飾り。誰かからもらった大切な贈り物だけれど、送り主の名前だけが思い出せません。',
+ '七番観測所の古い望遠鏡。レンズの端に小さな星形の傷があります。遠い星を見るより、今夜の空を誰かと分け合うための道具です。',
+ '丘の上にぽつんと建つ七番観測所。夜になると窓に小さな光が灯り、今日もミオがひとり、星の声を探しています。'
+];
+document.querySelectorAll('[data-equipment]').forEach(button=>button.addEventListener('click',()=>{const index=Number(button.dataset.equipment);document.querySelectorAll('[data-equipment]').forEach(el=>{el.classList.toggle('active',el===button);el.setAttribute('aria-pressed',String(el===button))});document.querySelector('#equipment-tag').textContent=`COLLECTION NO. 0${index+1}`;document.querySelector('#equipment-description').textContent=equipmentLore[index]}));

diff --git a/README.md b/README.md
@@ -7,13 +7,14 @@ https://lovingthenhk-cpu.github.io/hoshiyomi-mio-official/
 
 ## 機能
 
-- 生成画像から制作した周辺透過のキャラクター・天文台・ミニキャラ画像をCSSと合成
+- 生成画像からアニメ人物セグメンテーションモデルで背景除去したキャラクター・ミニキャラの透明PNGと、周辺透過した天文台画像をCSSと合成
 - ニュースのカテゴリーフィルターと拡大可能なギャラリー
 - 物語上のイベントを表示する観測カレンダーと日誌詳細モーダル（実イベントではありません）
 - 端末の音声合成を利用したセリフ再生（声優の実録音ではありません）
 - Web Audio APIで合成するオリジナルアンビエントBGM（操作するまで鳴りません）
 - ミオの案内マスコット、お気に入り保存、夜空色とすみれ色のテーマ切替
 - ラジオ風の周波数受信UI（87.7 MHzでメッセージ表示）
+- 生成素材の髪飾り・望遠鏡・天文台をクリックして見る「ミオの宝物」図鑑
 - 七つの星を探す星図ゲームと隠しメッセージ（ブラウザに進捗保存）
 - 自分だけの手紙帳（ブラウザのlocalStorageにのみ保存・削除可能）
 - PNG壁紙メーカー（モバイル1080×1920、PC1920×1080、正方形1080×1080）
@@ -33,7 +34,7 @@ GitHub Pagesで`main`の`/(root)`を指定して公開します。GitHub Actions
 
 ## アート制作と注意事項
 
-サイトのキャラクター素材にはAI生成されたサイトモックアップから切り出し、周辺を透過処理したPNGを使用しています。**厳密な人物輪郭の透過切り抜きではありません**。背景、情報カード、テキスト、ナビゲーション、波形、星図、壁紙の描画はHTML/CSS/JavaScriptで実装しています。初期バージョンの手描きSVGも`assets/mio.svg`に残しています。
+サイトのキャラクター素材には生成されたサイトモックアップを元に、アニメ画像専用の背景除去モデルで人物輪郭を抽出した透過PNGを使用しています。一部のシーンには周辺フェードを併用しています。背景、情報カード、テキスト、ナビゲーション、波形、星図、壁紙の描画はHTML/CSS/JavaScriptで実装しています。初期バージョンの手描きSVGも`assets/mio.svg`に残しています。
 
 サイトの投稿・イベント情報は架空の演出です。受信メッセージは実際の音声通信ではなく、プログラムで表示する文章です。ユーザーの手紙はサーバーに送信されません。
 
